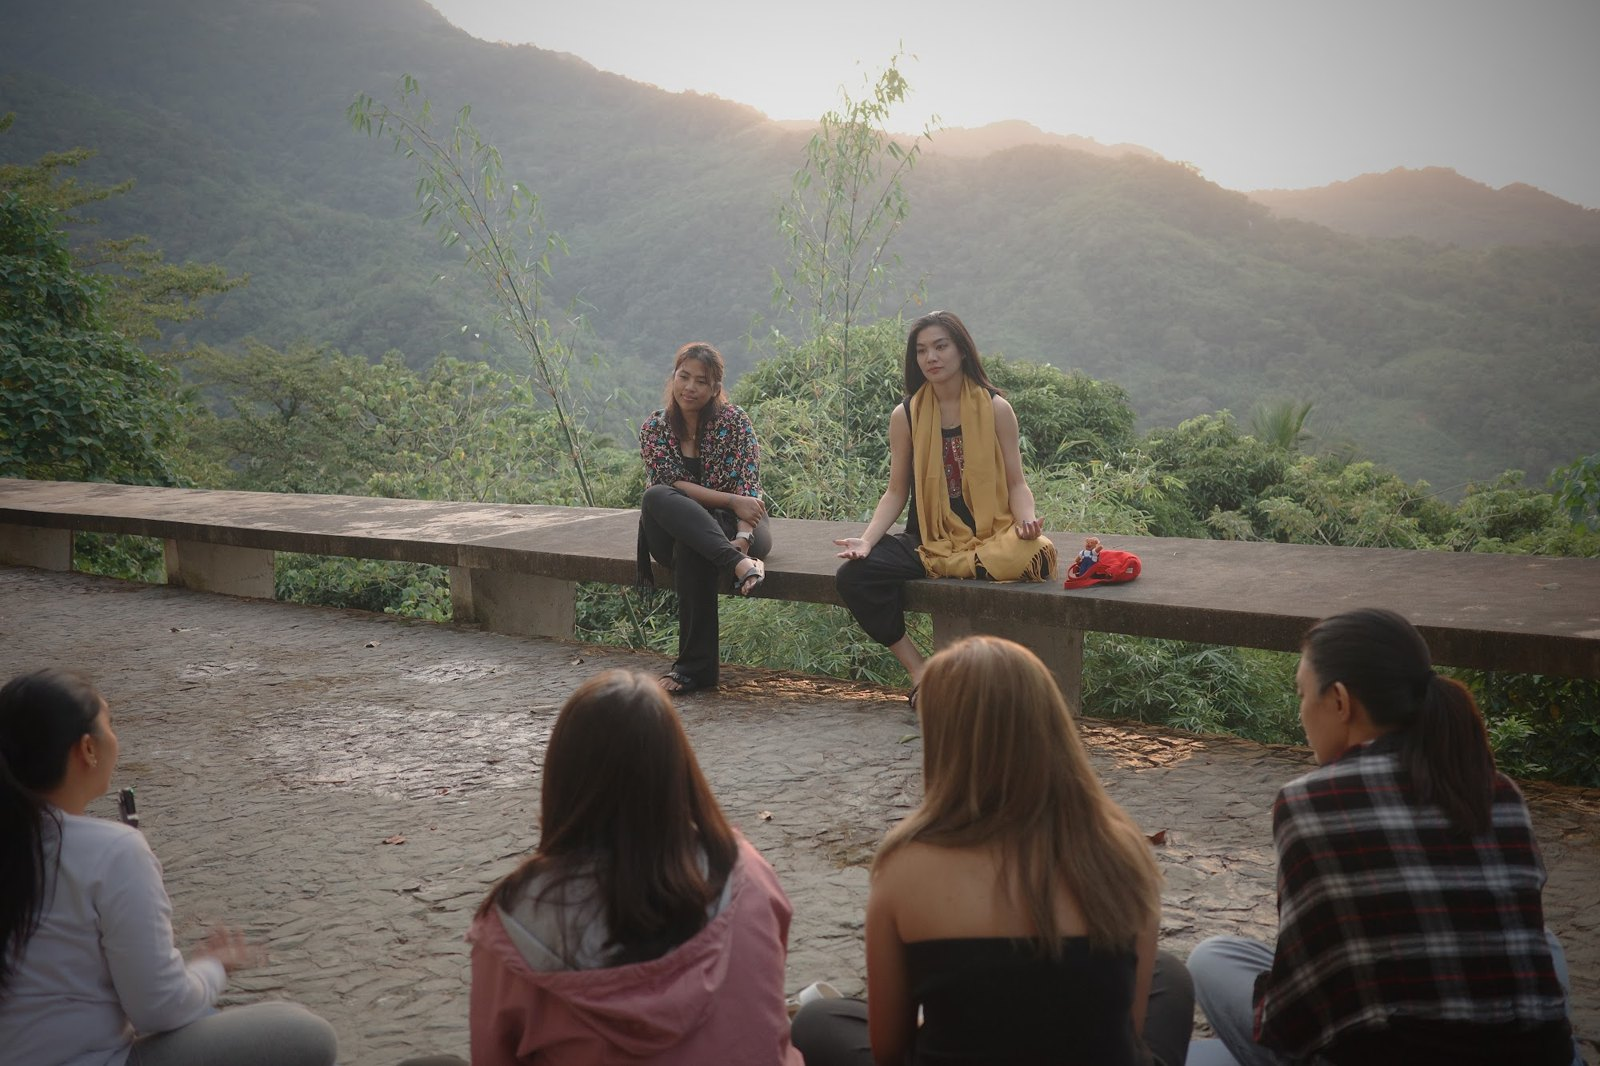
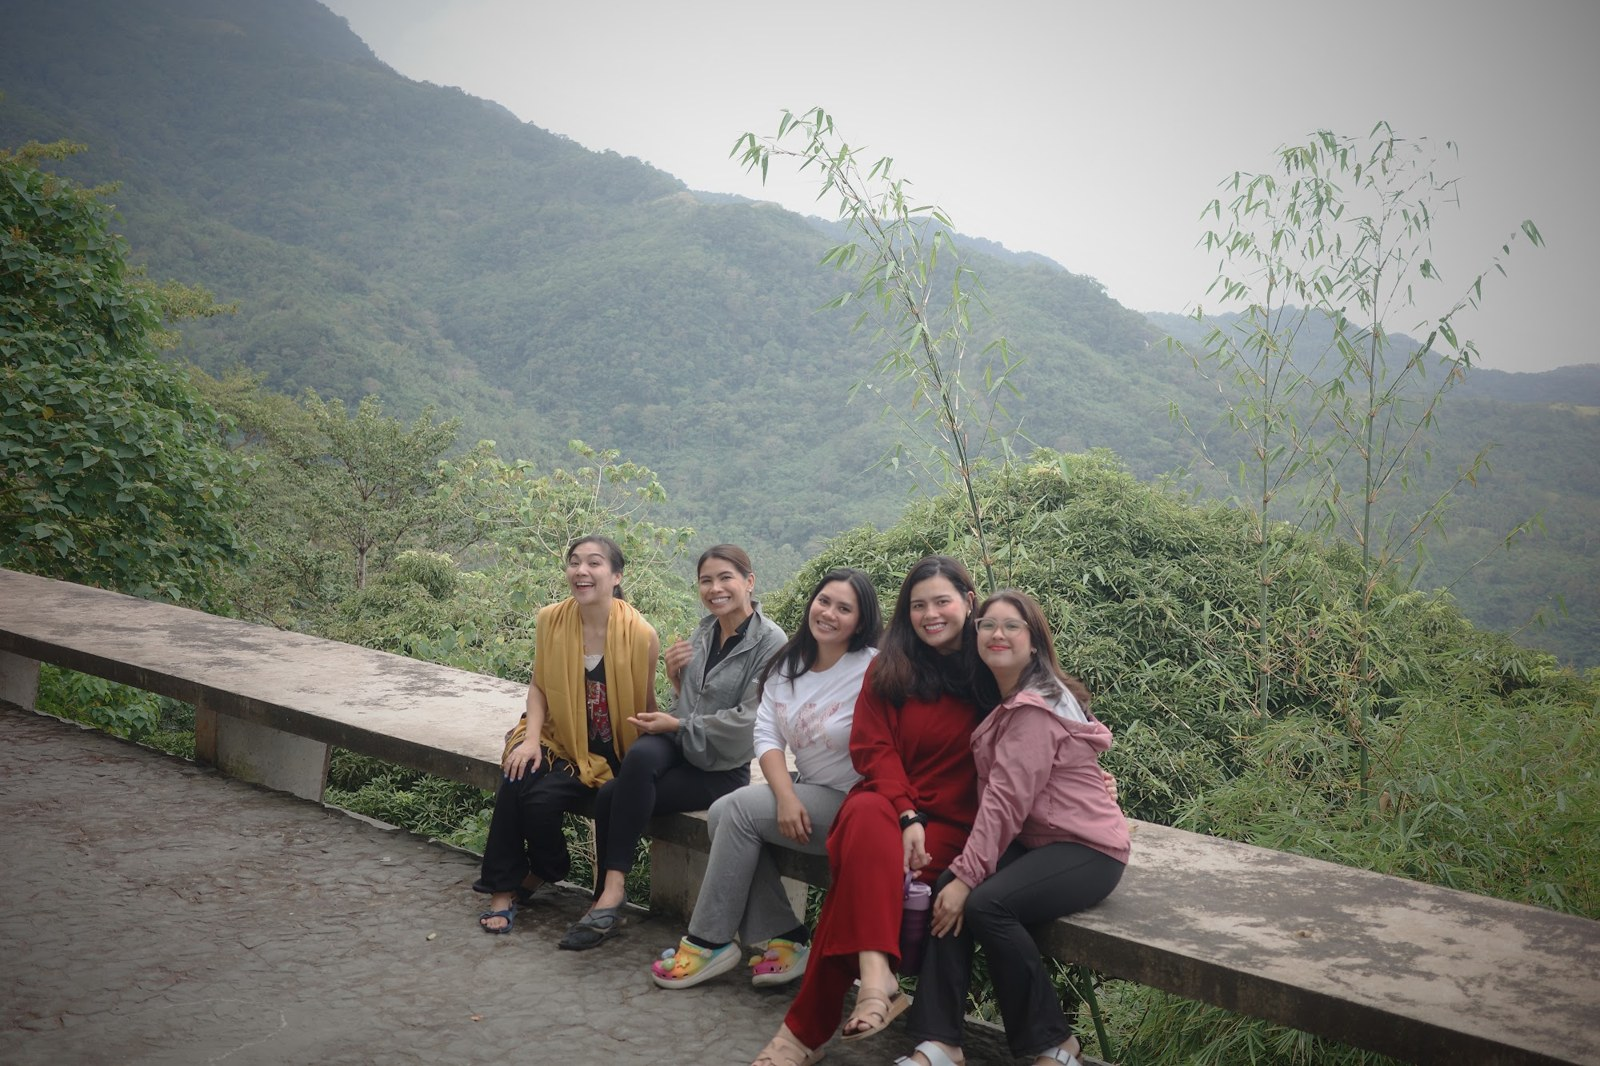
Liberate: drop the session screenshot grid; new photos for features 05–08; portal weeks dated
The phone clips now carry "Come sit in the room", so the four static
screenshots and their Studio slots are gone. Feature tiles: journaling in
the papasan chair, the circle on the mountain ledge for community, a framed
screenshot of the real member portal for "your own online portal", and the
golden-hour group for the retreat. DEFAULT_LIBERATE weeks now carry the
Tuesday dates (Nov 3 → Feb 2, resting Dec 22/29) so the portal's "this
week" and "next" read correctly for the November cohort.

diff --git a/app/liberate/LiberateClient.tsx b/app/liberate/LiberateClient.tsx
@@ -80,20 +80,12 @@ const INSIDE_STOCK: Record<string, string> = {
 };
 const SHOT_SLOTS = ["shots_1", "shots_2", "shots_3", "shots_4", "shots_5", "shots_6", "shots_7", "shots_8"];
 
-// Real screenshots from the weekly Zoom sessions (from the LIBer highlight) — what a night inside looks like.
-const SESSIONS: [string, string][] = [
-  ["session_1", "The weekly circle"],
-  ["session_2", "Wherever you are"],
-  ["session_3", "Breathwork, together"],
-  ["session_4", "The final call"],
-];
 type Clip = { src: string; poster?: string; label?: string };
 const DEFAULT_CLIPS: Clip[] = [
   { src: "/videos/liberate/session-29.mp4", poster: "/photos/liberate/session-3.jpg", label: "Breathwork, together" },
   { src: "/videos/liberate/session-32.mp4", poster: "/photos/liberate/session-1.jpg", label: "Favourite night of the week" },
   { src: "/videos/liberate/session-05.mp4", poster: "/photos/liberate/session-4.jpg", label: "A guest in the circle" },
 ];
-const SESSION_FALLBACK = ["/photos/liberate/session-1.jpg", "/photos/liberate/session-2.jpg", "/photos/liberate/session-3.jpg", "/photos/liberate/session-4.jpg"];
 
 // The in-person celebration & retreat gallery (real photos from the highlight).
 // Tuesday circle dates for the November 2026 cohort. Thursdays follow two days later.
@@ -354,12 +346,6 @@ export default function LiberateClient({ photos = {}, words: incoming, videos: i
         .lb-clip:nth-child(2) { transform: translateY(-18px); }
         .lb-clip video { position: absolute; inset: 0; width: 100%; height: 100%; object-fit: cover; }
         .lb-clip figcaption { position: absolute; left: 12px; right: 12px; bottom: 12px; font-family: var(--sans); font-size: 9px; letter-spacing: .22em; text-transform: uppercase; color: var(--lb-ivory); text-shadow: 0 1px 8px rgba(0,0,0,.7); }
-        .lb-sessions { display: grid; grid-template-columns: 1fr 1fr; gap: 14px; margin-top: clamp(40px, 5vw, 64px); }
-        .lb-sessions figure { margin: 0; position: relative; overflow: hidden; }
-        .lb-sessions img { width: 100%; aspect-ratio: 3 / 2; object-fit: cover; display: block; transition: transform 1.2s cubic-bezier(.2,.7,.2,1); }
-        .lb-sessions figure:hover img { transform: scale(1.03); }
-        .lb-sessions figcaption { position: absolute; left: 14px; bottom: 12px; font-family: var(--sans); font-size: 10px; letter-spacing: .24em; text-transform: uppercase; color: var(--lb-ivory); text-shadow: 0 1px 8px rgba(0,0,0,.55); }
-        .lb-sessions figure::after { content: ""; position: absolute; inset: 0; background: linear-gradient(180deg, rgba(36,28,42,0) 55%, rgba(36,28,42,.5) 100%); pointer-events: none; }
 
         /* 07 retreat */
         .lb-retreat-head { max-width: 900px; }
@@ -520,7 +506,6 @@ export default function LiberateClient({ photos = {}, words: incoming, videos: i
           .lb-sticky .lb-ctas { flex-direction: row; } .lb-sticky .lb-ctas .lb-btn { width: auto; }
           .lb { padding-bottom: 0; }
           .lb-road { gap: 48px; }
-          .lb-sessions { grid-template-columns: 1fr; }
           .lb-clips { overflow-x: auto; justify-content: flex-start; padding: 20px 4px 12px; margin-left: -4px; margin-right: -4px; scroll-snap-type: x mandatory; }
           .lb-clip { flex: 0 0 48vw; scroll-snap-align: start; }
           .lb-clip:nth-child(2) { transform: none; }
@@ -661,21 +646,13 @@ export default function LiberateClient({ photos = {}, words: incoming, videos: i
         <div className="lb-wrap">
           <div className="lb-head lb-reveal">
             <div><p className="lb-eyebrow">What our sessions look like</p><h2 className="lb-display" style={{ marginTop: 14 }}>Come sit in the room.</h2></div>
-            <p className="lb-lede lb-muted" style={{ maxWidth: "30ch" }}>Twice a week on Zoom, wherever you are. Cameras on, hearts open — real moments from our weekly circles, so you can feel what a night in Liberate is like before you ever join one.</p>
+            <p className="lb-lede lb-muted" style={{ maxWidth: "30ch" }}>Twice a week on Zoom, wherever you are. Cameras on, hearts open — real moments from our weekly circles — tap any one — so you can feel what a night in Liberate is like before you ever join one.</p>
           </div>
           {clips.length > 0 && (
             <div className="lb-clips lb-reveal">
               {clips.map((c, i) => <LbClip key={c.src + i} clip={c} />)}
             </div>
           )}
-          <div className="lb-sessions lb-reveal">
-            {SESSIONS.map(([slot, label], i) => (
-              <figure key={slot} style={{ transitionDelay: `${(i % 2) * 0.08}s` }}>
-                <img src={photos[slot] || SESSION_FALLBACK[i]} alt={label} loading="lazy" />
-                <figcaption>{label}</figcaption>
-              </figure>
-            ))}
-          </div>
         </div>
       </section>
 

diff --git a/lib/content.ts b/lib/content.ts
@@ -307,11 +307,14 @@ const ROADMAP: [string, string][] = [
   ["Repatterning", "Practice a new way of being."], ["Nervous system", "Create more capacity for safety, receiving, and expression."], ["Integration", "Bring the work into real life."], ["Liberation", "Step into greater freedom and choice."],
 ];
 
+// Tuesday circle dates for the November 2026 cohort (rest on Dec 22 and 29).
+export const LIBERATE_TUESDAYS = ["2026-11-03", "2026-11-10", "2026-11-17", "2026-11-24", "2026-12-01", "2026-12-08", "2026-12-15", "2027-01-05", "2027-01-12", "2027-01-19", "2027-01-26", "2027-02-02"];
+
 export const DEFAULT_LIBERATE: LiberateHQ = {
   cohortLabel: "November 2026 cohort",
   accessCode: "",
   welcome: "Welcome home. Everything for our twelve weeks together lives here — the roadmap, each week’s session, the replays, and the practices in between. Take what you need, when you need it.",
-  weeks: ROADMAP.map(([title, theme], i) => ({ n: i + 1, title, theme, resources: [] })),
+  weeks: ROADMAP.map(([title, theme], i) => ({ n: i + 1, title, theme, date: LIBERATE_TUESDAYS[i], resources: [] })),
 };
 
 // Real words from Liberate students, quoted from the stories they posted and Libni reshared

diff --git a/config/liberate-photos.ts b/config/liberate-photos.ts
@@ -51,11 +51,6 @@ export const LIBERATE_PHOTO_SLOTS: LiberatePhotoSlot[] = [
   { id: "shots_8", label: "Testimonial screenshot 8", section: "Section 9 · screenshots", aspectRatio: "9/16", required: false },
 
   // Section 7: Retreat
-  { id: "session_1", label: "Session screenshot 1 • the Zoom room", section: "Section 6b · sessions", aspectRatio: "3/2", required: false },
-  { id: "session_2", label: "Session screenshot 2", section: "Section 6b · sessions", aspectRatio: "3/2", required: false },
-  { id: "session_3", label: "Session screenshot 3", section: "Section 6b · sessions", aspectRatio: "3/2", required: false },
-  { id: "session_4", label: "Session screenshot 4", section: "Section 6b · sessions", aspectRatio: "3/2", required: false },
-
   { id: "retreat_hero", label: "Retreat • wide shot, Manila", section: "Section 7", aspectRatio: "16/9", required: false },
   { id: "retreat_1", label: "Retreat mosaic photo 1", section: "Section 7", aspectRatio: "1/1", required: false },
   { id: "retreat_2", label: "Retreat mosaic photo 2", section: "Section 7", aspectRatio: "1/1", required: false },
